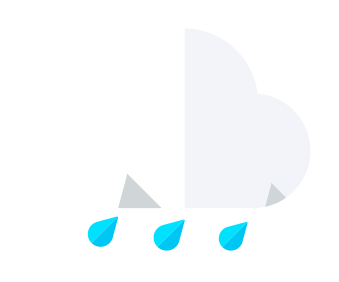
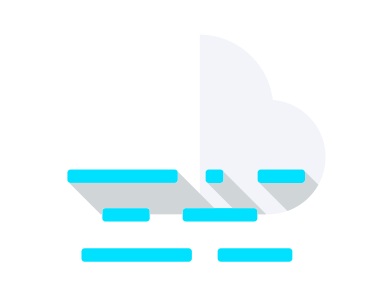
ikonki
ikonki już działają

Changed region(s): [[0.177, 0.5674, 0.708, 0.9078], [0.649, 0.5674, 0.8555, 0.7376], [0.5605, 0.766, 0.767, 0.9078]]

diff --git a/outfitadvisor/src/TurkishWeatherBlock.js b/outfitadvisor/src/TurkishWeatherBlock.js
@@ -2,6 +2,11 @@
 import axios from 'axios';
 import React, { useState, useEffect } from 'react';
 import './TurkishWeatherBlock.scss';
+import clouds from "./images/clouds.png";
+import rain from "./images/rain.png";
+import clear from "./images/clear.png";
+import mist from "./images/mist.png";
+import drizzle from "./images/drizzle.png";
 
 const TurkishWeatherBlock = () => {
   const [data, setData] = useState({
@@ -57,18 +62,17 @@ const TurkishWeatherBlock = () => {
     axios
       .get(apiUrl)
       .then((res) => {
+        console.log(res.data);
         let imagePath = '';
-        // te obrazki to musze znaleźć narazie to takie tymczasowe u know
         const weatherConditionToImage = {
-          Clear: '/images/clear.png',
-          Clouds: '/images/clouds.png',
-          Drizzle: '/images/drizzle.png',
-          Rain: '/images/rain.png',
-          Mist: '/images/mist.png',
+          Clear: clear,
+          Clouds: clouds,
+          Drizzle: drizzle,
+          Rain: rain,
+          Mist: mist,
         };
-        
 
-        const defaultImagePath = '/images/clear.png';
+        const defaultImagePath = clear;
         const weatherMain = res.data.weather[0].main;
         imagePath = weatherConditionToImage[weatherMain] || defaultImagePath;
 
@@ -114,9 +118,8 @@ const TurkishWeatherBlock = () => {
           <p>{error}</p>
         </div>
         {data.name !== '' && data.celcius !== null && (
-          <div className="winfo">
-            {/* <p className="icon">{data.image}</p> */}
-            <img className='icon' src={data.image} alt='obrazek pogody' />
+          <div className="winfo">        
+            <img className='icon' src={data.image}/>
             <h1>{Math.round(data.celcius)}°C</h1>
             <h2>{data.name}</h2>
             {/* JEŚLI BEDZIEMY POTRZEBOWAC TO ODKOMENTUJEMY :** */}

diff --git a/outfitadvisor/src/App.scss b/outfitadvisor/src/App.scss
@@ -113,7 +113,7 @@ main {
     
         &:last-child span {
             position: absolute;
-            z-index: 9999;
+            z-index: 99;
             right: 4.5em;
             top: 3.5em;
         }
@@ -139,7 +139,7 @@ main {
     position: absolute;
     z-index: 9999;
     width: 23em;
-    height: 400px;
+    height: 450px;
     background-color: $primary-color;
     border-radius: 24px;
     transform: translateY(-10px);

diff --git a/outfitadvisor/src/TurkishWeatherBlock.scss b/outfitadvisor/src/TurkishWeatherBlock.scss
@@ -14,8 +14,9 @@ $weather-block-bg-color: #deedf3;
   }
   
   .weather {
+    z-index: 9999;
     width: 23em;
-    height: 25em;
+    height: 28.2em;
     padding: 30px;
     border-radius: 24px;
     text-align: center;
@@ -62,7 +63,7 @@ $weather-block-bg-color: #deedf3;
     .winfo {
       .icon {
         margin-top: 20px;
-        width: 170px;
+        width: 120px;
       }
   
       h1 {
